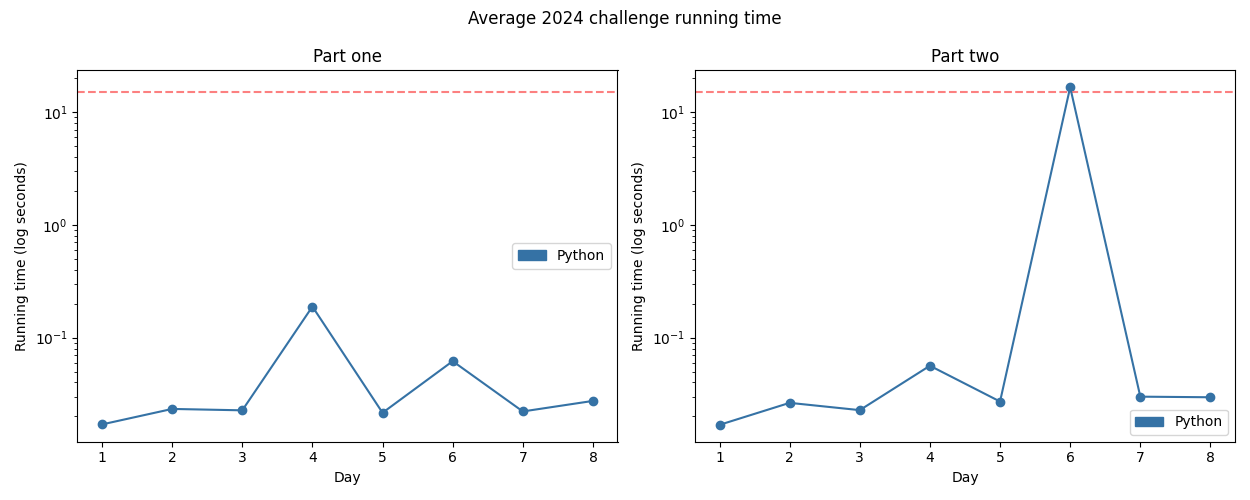
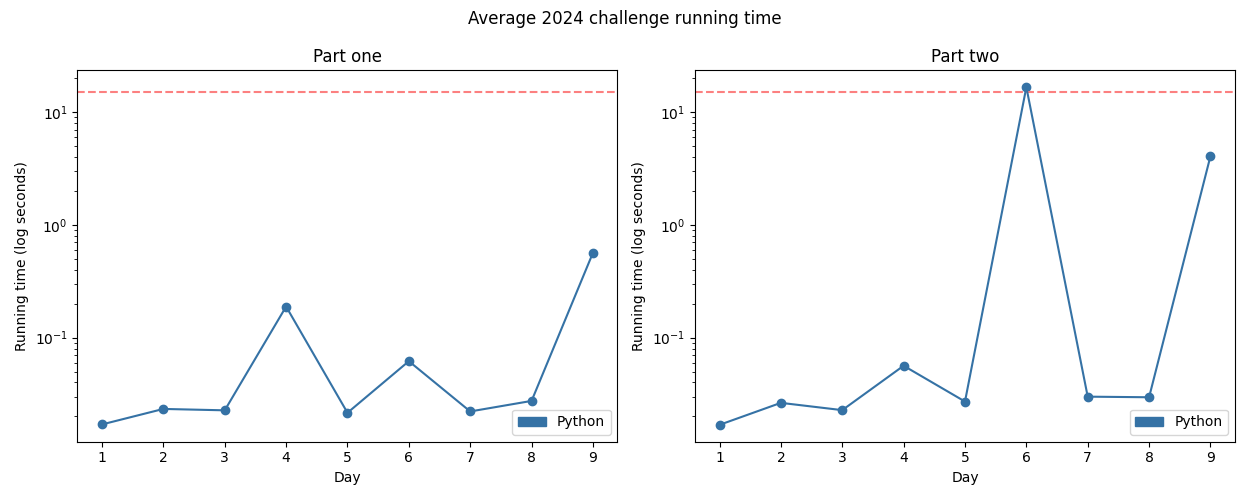
2024.09

diff --git a/challenges/2024/09-diskFragmenter/main.py b/challenges/2024/09-diskFragmenter/main.py
@@ -1,0 +1,129 @@
+import sys
+from collections import namedtuple, defaultdict
+
+
+Segment = namedtuple("Segment", ["id", "len"])
+
+
+def parse(instr: str) -> list[Segment]:
+    res = []
+    next_id = 0
+    
+    for i, v in enumerate(instr):
+        v = int(v)
+        if i % 2 == 0:
+            # this is a file
+            res.append(Segment(next_id, v))
+            next_id += 1
+        else:
+            # this is a gap
+            res.append(Segment(None, v))
+            
+    if res[-1].id is None:
+        # random gap at the end? no thanks
+        res = res[:-1]
+            
+    return res
+
+
+def calc_checksum(files: list[Segment]) -> int:
+    acc = 0
+    pos = 0
+    for file in files:
+        if file.id is not None:
+            # sum of sequence of n consecutive integers is (n / 2)(first + last)
+            acc += int((file.len / 2) * ((pos * 2) + file.len - 1) * file.id)
+        pos += file.len
+    return acc
+
+
+def one(instr: str):
+    files = parse(instr)
+        
+    i = 0
+    while i < len(files) - 1:        
+        f = files[i]
+        last_file = files[-1]
+        
+        if last_file.id is None:
+            files = files[:-1]
+            continue
+        
+        if f.id is None:
+            # _debug(i, files[i])
+            last_file = files[-1]
+            
+            assert last_file.id is not None
+            if last_file.len > f.len:
+                files[-1] = Segment(last_file.id, last_file.len - f.len)
+                files[i] = Segment(last_file.id, f.len)
+            elif last_file.len == f.len:
+                # we're gonna move all of this so just delete it
+                files = files[:-1]
+                files[i] = last_file
+            else:
+                # TODO: when we haven't got enough in this last file so we need to split f into two
+                files = files[:-1]
+                files[i] = last_file
+                assert f.len - last_file.len != 0
+                files.insert(i+1, Segment(None, f.len - last_file.len))            
+        
+        i += 1
+    
+    return calc_checksum(files)
+
+
+def two(instr: str):
+    files = parse(instr)
+    
+    gaps = defaultdict(list)
+    
+    for i, file in enumerate(files):
+        if file.id is None and file.len != 0:
+            gaps[file.len].append(i)
+            
+    moved = set()
+    
+    i = len(files) - 1
+    while i > 0:
+        f = files[i]
+        
+        if f.id is not None and f.id not in moved:
+            gap_loc = None
+            for j, v in enumerate(files):
+                if j >= i:
+                    break
+                
+                if v.id is None and v.len >= f.len:
+                    gap_loc = j
+                    break
+                    
+            if gap_loc is not None:
+                v = files[gap_loc]
+                if v.len == f.len:
+                    files[i], files[gap_loc] = files[gap_loc], files[i]
+                else:
+                    files[i] = Segment(None, f.len)
+                    files[gap_loc] = f
+                    files.insert(gap_loc + 1, Segment(None, v.len - f.len))
+                moved.add(f.id)
+                
+        i -= 1
+        
+    return calc_checksum(files)
+
+
+def _debug(*args, **kwargs):
+    kwargs["file"] = sys.stderr
+    print(*args, **kwargs)
+
+
+if __name__ == "__main__":
+    if len(sys.argv) < 2 or sys.argv[1] not in ["1", "2"]:
+        print("Missing day argument", file=sys.stderr)
+        sys.exit(1)
+    inp = sys.stdin.read().strip()
+    if sys.argv[1] == "1":
+        print(one(inp))
+    else:
+        print(two(inp))

diff --git a/challenges/2024/README.md b/challenges/2024/README.md
@@ -21,4 +21,5 @@ A day denoted with an asterisk means it has a visualisation.
 | 05 - Print Queue                    | ★ ★   | Python               | Before you dismiss and idea as being "too simple", make sure you check that it doesn't work. |
 | 06 - Guard Gallivant                | ★ ★   | Python               | oh dear runtime (also I knew what I wanted to do for so long it just took me 3 hours to implement it properly) |
 | 07 - Bridge Repair                  | ★ ★   | Python               | Maths? Backwards?? |
-| 08* - Resonant Collinearity          | ★ ★   | Python               | `Fraction` saving us all from the curse of a computer's inability to do floating point arithmetic |
+| 08* - Resonant Collinearity         | ★ ★   | Python               | `Fraction` saving us all from the curse of a computer's inability to do floating point arithmetic |
+| 09 - Disk Fragmenter                | ★ ★   | Python               | Many cursed strategies were attempted before I landed on the final implementation |

diff --git a/challenges/2024/09-diskFragmenter/README.md b/challenges/2024/09-diskFragmenter/README.md
@@ -1,0 +1,5 @@
+# [Day 9: Disk Fragmenter](https://adventofcode.com/2024/day/9)
+
+Part 2 is:
+* less than 6277851188082
+            6272188244509
